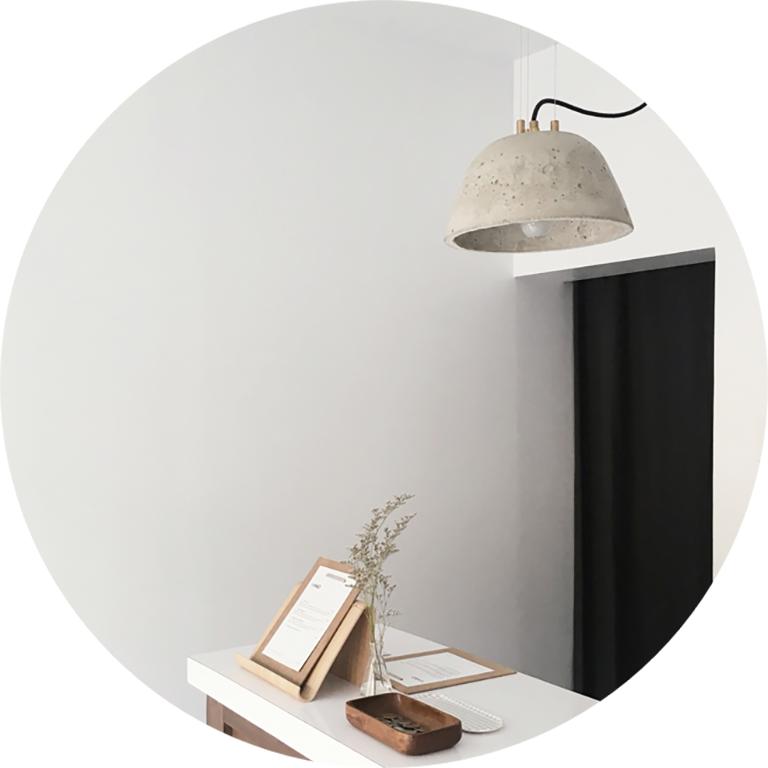
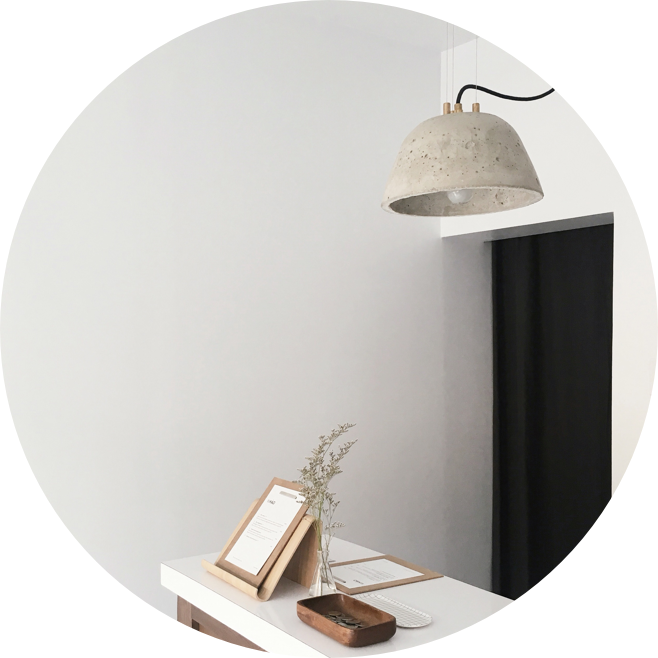
styling to account for new image sizes

diff --git a/app/lib/layouts/LayoutFront.js b/app/lib/layouts/LayoutFront.js
@@ -34,33 +34,33 @@ class LayoutFront extends React.Component {
   render() {
     return (
       <div className='layout layout-front'>
-        <Container fluid classes='panel-1'>
-          <Row className='articles row-flex'>
-            <Col sm={12}>
-              <ParticleH2 className='text-color-gold header-top' {...this.props.data.list[17]}/>
-              <HR/>
-            </Col>
-            <Col sm={3}>
-              <ArticleTeaser
-                classes="wrapper"
-                metaLinksClasses="article-meta-small"
-                ParticleImage={this.props.data.list[0]}
-                ArticleCategory={this.props.data.list[1].field_main_topics[0]}
-                ParticleH2={this.props.data.list[1].ParticleH2}
-                ContributorList={this.props.data.list[1].field_contributors}
-              />
-            </Col>
-            <Col sm={6}>
-              <ArticleTeaser
-                classes="wrapper lg-img first-center-img"
-                metaLinksClasses="article-meta-large-centered article-meta-large-centered"
-                ParticleImage={this.props.data.list[2]}
-                ArticleCategory={this.props.data.list[3].field_main_topics[0]}
-                ParticleH2={this.props.data.list[3].ParticleH2}
-                ContributorList={this.props.data.list[3].field_contributors}
-              />
-            </Col>
-            <Col sm={3}>
+          <Container fluid classes='panel-1'>
+              <Row className='articles row-flex'>
+                  <Col sm={12}>
+                      <ParticleH2 className='text-color-gold header-top' {...this.props.data.list[17]}/>
+                      <HR/>
+                  </Col>
+                  <Col sm={3}>
+                      <ArticleTeaser
+      classes="wrapper"
+      metaLinksClasses="article-meta-small"
+      ParticleImage={this.props.data.list[0]}
+      ArticleCategory={this.props.data.list[1].field_main_topics[0]}
+      ParticleH2={this.props.data.list[1].ParticleH2}
+      ContributorList={this.props.data.list[1].field_contributors}
+      />
+                  </Col>
+                  <Col sm={6}>
+                      <ArticleTeaser
+      classes="wrapper lg-img first-center-img"
+      metaLinksClasses="article-meta-large-centered article-meta-large-centered"
+      ParticleImage={this.props.data.list[2]}
+      ArticleCategory={this.props.data.list[3].field_main_topics[0]}
+      ParticleH2={this.props.data.list[3].ParticleH2}
+      ContributorList={this.props.data.list[3].field_contributors}
+      />
+                  </Col>
+                  <Col sm={3}>
               <ParticleH2 className='heading-text' {...this.props.data.list[16]}/>
             </Col>
           </Row>
@@ -69,21 +69,21 @@ class LayoutFront extends React.Component {
           <Row>
             <Col sm={6}>
               <ArticleTeaser classes="wrapper lg-img" metaLinksClasses="article-meta-large has-intro-text"
-                ParticleImage={this.props.data.list[4]}
-                ArticleCategory={this.props.data.list[5].field_main_topics[0]}
-                ParticleH2={this.props.data.list[5].ParticleH2}
-                ParticleText={this.props.data.list[5].ParticleText}
-                ContributorList={this.props.data.list[5].field_contributors}
-              />
+      ParticleImage={this.props.data.list[4]}
+      ArticleCategory={this.props.data.list[5].field_main_topics[0]}
+      ParticleH2={this.props.data.list[5].ParticleH2}
+      ParticleText={this.props.data.list[5].ParticleText}
+      ContributorList={this.props.data.list[5].field_contributors}
+      />
             </Col>
             <Col sm={6}>
               <ArticleTeaser classes="wrapper lg-img" metaLinksClasses="article-meta-large has-intro-text"
-                ParticleImage={this.props.data.list[6]}
-                ArticleCategory={this.props.data.list[27].field_main_topics[0]}
-                ParticleH2={this.props.data.list[27].ParticleH2}
-                ParticleText={this.props.data.list[27].ParticleText}
-                ContributorList={this.props.data.list[27].field_contributors}
-              />
+      ParticleImage={this.props.data.list[6]}
+      ArticleCategory={this.props.data.list[27].field_main_topics[0]}
+      ParticleH2={this.props.data.list[27].ParticleH2}
+      ParticleText={this.props.data.list[27].ParticleText}
+      ContributorList={this.props.data.list[27].field_contributors}
+      />
             </Col>
           </Row>
         </Container>
@@ -95,10 +95,10 @@ class LayoutFront extends React.Component {
                 <HR/>
                 <ParticleImage {...this.props.data.list[28]}/>
                 <ArticleTeaser classes="wrapper"
-                  ParticleH2={this.props.data.list[29].ParticleH2}
-                  ParticleText={this.props.data.list[29].ParticleText}
-                  ContributorList={this.props.data.list[29].field_contributors}
-                />
+      ParticleH2={this.props.data.list[29].ParticleH2}
+      ParticleText={this.props.data.list[29].ParticleText}
+      ContributorList={this.props.data.list[29].field_contributors}
+      />
               </SquareArticleContainer>
             </Col>
             <Col xs={12} sm={6} md={4}>
@@ -122,10 +122,10 @@ class LayoutFront extends React.Component {
                 <HR/>
                 <ParticleImage {...this.props.data.list[30]}/>
                 <ArticleTeaser classes="wrapper"
-                  ParticleH2={this.props.data.list[31].ParticleH2}
-                  ParticleText={this.props.data.list[31].ParticleText}
-                  ContributorList={this.props.data.list[31].field_contributors}
-                />
+      ParticleH2={this.props.data.list[31].ParticleH2}
+      ParticleText={this.props.data.list[31].ParticleText}
+      ContributorList={this.props.data.list[31].field_contributors}
+      />
               </SquareArticleContainer>
             </Col>
             <Col sm={6} md={4}>
@@ -149,10 +149,10 @@ class LayoutFront extends React.Component {
                 <HR/>
                 <ParticleImage {...this.props.data.list[40]}/>
                 <ArticleTeaser classes="wrapper"
-                  ParticleH2={this.props.data.list[41].ParticleH2}
-                  ParticleText={this.props.data.list[41].ParticleText}
-                  ContributorList={this.props.data.list[41].field_contributors}
-                />
+      ParticleH2={this.props.data.list[41].ParticleH2}
+      ParticleText={this.props.data.list[41].ParticleText}
+      ContributorList={this.props.data.list[41].field_contributors}
+      />
               </SquareArticleContainer>
             </Col>
             <Col xs={12} sm={6} md={4}>

diff --git a/app/lib/layouts/LayoutFeature.js b/app/lib/layouts/LayoutFeature.js
@@ -35,51 +35,77 @@ class LayoutFeature extends React.Component {
                   <Col>
                       <ParticleImage {...this.props.data.field_particles_image[1]}/>
                   </Col>
+              </Row>
+              <Row>
                   <Col className='text-with-columns'>
                       <ParticleText {...this.props.data.field_particles_text[1]}/>
                   </Col>
+              </Row>
+              <Row>
                   <Col>
                       <ParticleImage {...this.props.data.field_particles_image[2]}/>
                   </Col>
+              </Row>
+              <Row>
                   <Col>
                       <ParticleImage {...this.props.data.field_particles_image[3]}/>
                   </Col>
+              </Row>
+              <Row>
                   <Col className='text-with-columns'>
                       <ParticleText {...this.props.data.field_particles_text[3]}/>
                   </Col>
+              </Row>
+              <Row>
                   <Col>
                       <ParticleImage {...this.props.data.field_particles_image[4]}/>
                   </Col>
-                  <Col sm={6}>
+              </Row>
+              <Row>
+                  <Col sm={6} className='half-width-picture'>
                       <ParticleImage {...this.props.data.field_particles_image[5]}/>
                   </Col>
                   <Col sm={6} className='one-column-by-picture'>
                       <ParticleText {...this.props.data.field_particles_text[4]}/>
                   </Col>
+              </Row>
+              <Row>
                   <Col>
                       <ParticleImage {...this.props.data.field_particles_image[6]}/>
                   </Col>
+              </Row>
+              <Row>
                   <Col>
                       <ParticleImage {...this.props.data.field_particles_image[7]}/>
                   </Col>
+              </Row>
+              <Row>
                   <Col sm={6} className='col-right'>
                       <ParticleText {...this.props.data.field_particles_text[5]}/>
                   </Col>
+              </Row>
+              <Row>
                   <Col>
                       <ParticleImage {...this.props.data.field_particles_image[8]}/>
                   </Col>
+              </Row>
+              <Row>
                   <Col className='text-with-columns'>
                       <ParticleText {...this.props.data.field_particles_text[6]}/>
                       <HR/>
                       <ParticleText {...this.props.data.field_particles_text[7]}/>
                   </Col>
+              </Row>
+              <Row>
                   <Col>
                       <ParticleImage {...this.props.data.field_particles_image[9]}/>
                   </Col>
+              </Row>
+              <Row>
                   <Col sm={6} className='col-left'>
                       <ParticleText {...this.props.data.field_particles_text[8]}/>
                   </Col>
-                  <Col sm={6}>
+                  <Col sm={6} className='half-width-picture col-right'>
                       <ParticleImage {...this.props.data.field_particles_image[10]}/>
                   </Col>
               </Row>

diff --git a/app/lib/layouts/LayoutLookbook.js b/app/lib/layouts/LayoutLookbook.js
@@ -33,7 +33,7 @@ class LayoutLookbook extends React.Component {
                   </Col>
               </Row>
               <Row className='big-row row-flex'>
-                  <Col md={6}>
+                  <Col md={6} className='big-image-1'>
                       <ParticleImage {...this.props.data.field_particles_image[1]}/>
                   </Col>
                   <Col md={5} className='verticle-aligned'>
@@ -48,7 +48,7 @@ class LayoutLookbook extends React.Component {
                           <ParticleImage {...this.props.data.field_particles_image[3]}/>
                       </div>
                   </Col>
-                  <Col md={6}>
+                  <Col md={6} className='big-image-2'>
                       <ParticleImage {...this.props.data.field_particles_image[4]}/>
                   </Col>
               </Row>

diff --git a/app/lib/styles/layouts/_layout-lookbook.scss b/app/lib/styles/layouts/_layout-lookbook.scss
@@ -85,8 +85,20 @@
         }
 
         .small-left-image {
-            img {
+            .img-responsive {
                 float: right;
+            }
+        }
+
+        .big-image-1 {
+            .img-responsive {
+                float: right;
+            }
+        }
+
+        .big-image-2 {
+            .img-responsive {
+                float: left;
             }
         }
     }

diff --git a/app/lib/styles/layouts/_layout-feature.scss b/app/lib/styles/layouts/_layout-feature.scss
@@ -9,6 +9,11 @@
         }
     }
 
+    .half-width-picture {
+        padding-left : 0;
+        padding-right: 0;
+    }
+
     .col-sm-6,
     .container-fluid,
     .has-hero,
@@ -38,6 +43,10 @@
 
     .col-right {
         float: right;
+
+        .img-responsive {
+            float: right;
+        }
     }
 
     .one-column-by-picture {

diff --git a/app/lib/styles/layouts/_layout-picture-intensive.scss b/app/lib/styles/layouts/_layout-picture-intensive.scss
@@ -105,7 +105,7 @@
     }
 
     .first-text {
-        padding-top: 170px;
+        padding-top: 220px;
 
         .first-letter::first-letter {
             font-style  : italic;
